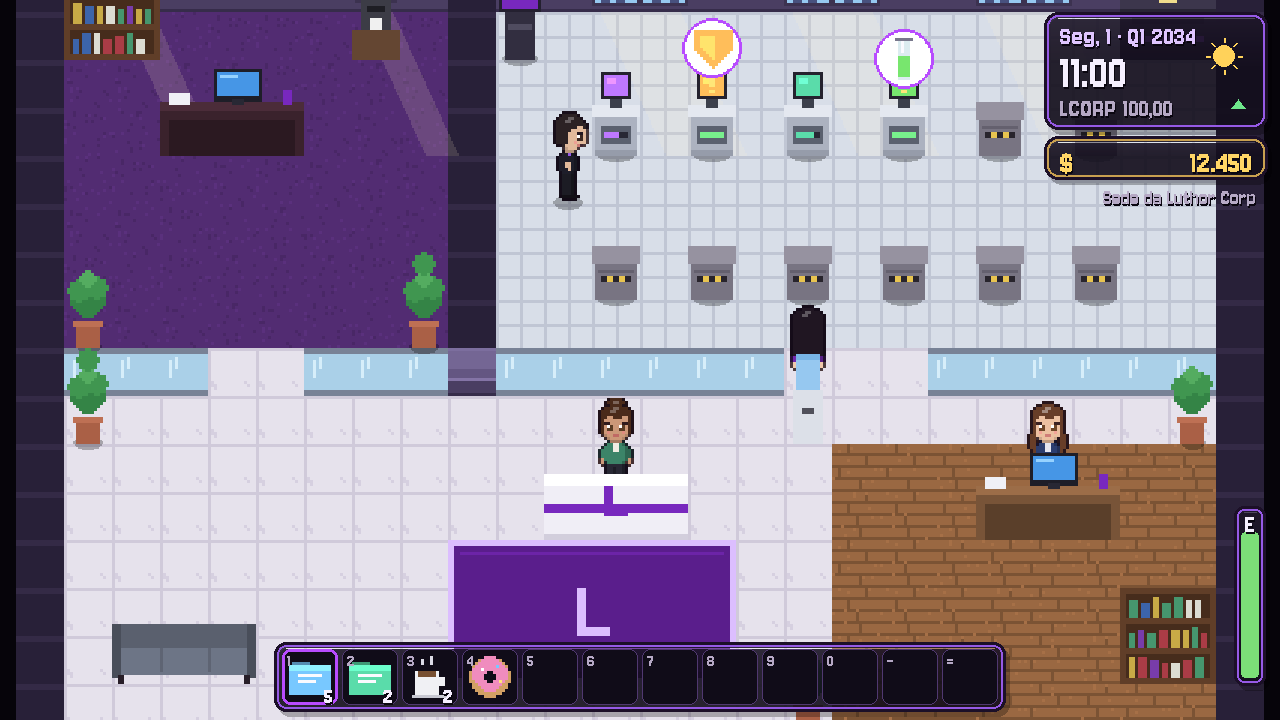
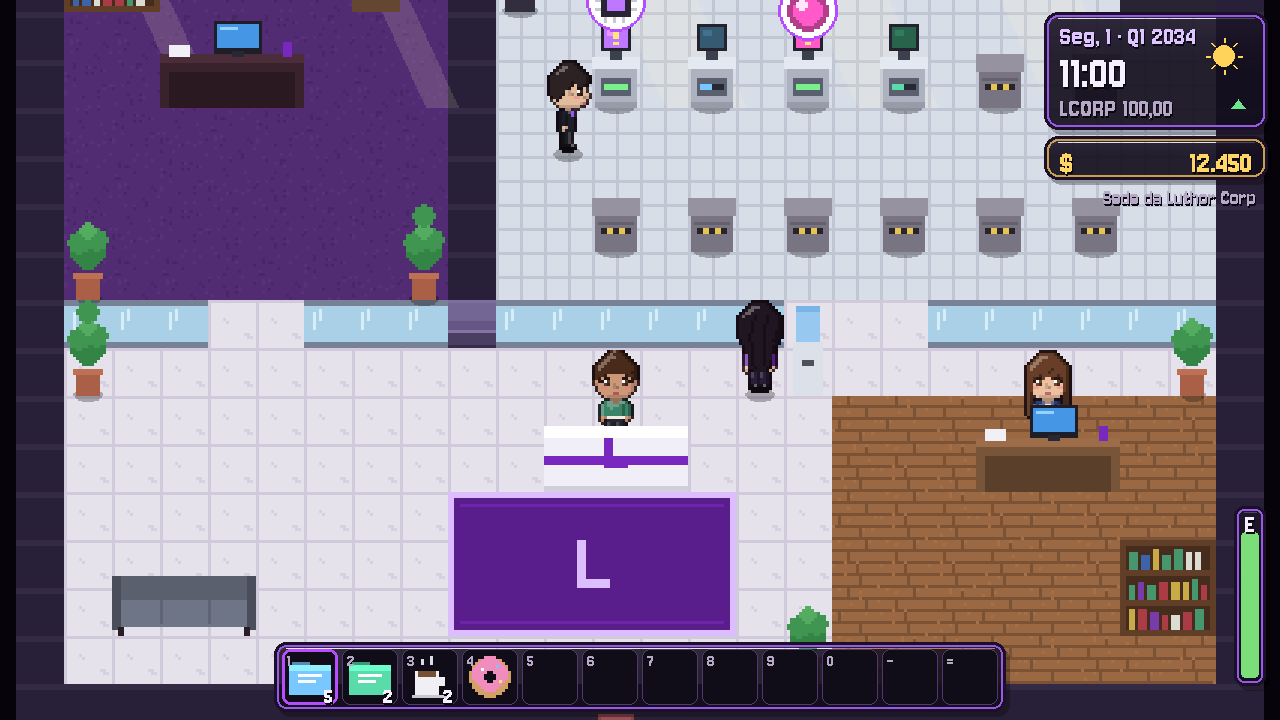
Site: imagens e textos do jogo novo
- Figuras das 18 personagens refeitas com os sprites novos (roupas e rosto maior).
- Capturas de tela refeitas com a cidade nova; galeria ganhou o Bosque Bayside
  e o Jardim do Mirante.
- Textos falam da cidade maior, das roupas e dos módulos scenery.py e sprites.py.
- Retrato em pixel art (quando não há foto) enquadra a cabeça maior.

diff --git a/docs/index.html b/docs/index.html
@@ -131,7 +131,7 @@
         <article class="card reveal"><div class="ico"><img src="img/icons/athena.png" alt=""></div><h3>Laboratório P&amp;D</h3>
           <p>Compre propostas, inicie projetos nas bancadas e trabalhe neles todo dia. Lance produtos e feche contratos à noite.</p></article>
         <article class="card reveal"><div class="ico"><img src="img/icons/robalo.png" alt=""></div><h3>Pescaria</h3>
-          <p>13 espécies no mar e no lago, que mudam com o trimestre, a hora e a chuva. Tem um peixe lendário brilhando verde…</p></article>
+          <p>13 espécies no mar e nos lagos, que mudam com o trimestre, a hora e a chuva. Tem um peixe lendário brilhando verde…</p></article>
         <article class="card g reveal"><span class="pill">novo</span><div class="ico"><img src="img/icons/semente_morango.png" alt=""></div><h3>Horta no terraço</h3>
           <p>Plante manjericão, tomate, morango, girassol, rosas e abóbora. Regue todo dia, colha e cozinhe.</p></article>
         <article class="card g reveal"><span class="pill">novo</span><div class="ico"><img src="img/icons/petisco_pet.png" alt=""></div><h3>Bichinho</h3>
@@ -139,7 +139,9 @@
         <article class="card reveal"><div class="ico"><img src="img/icons/lasanha_nonna.png" alt=""></div><h3>Cozinha</h3>
           <p>Ingredientes do Mercado Central viram pratos no fogão da cobertura. Livros ensinam receitas secretas.</p></article>
         <article class="card g reveal"><span class="pill">novo</span><div class="ico"><img src="img/icons/concha.png" alt=""></div><h3>Coletáveis</h3>
-          <p>Conchas, corais e estrelas-do-mar na praia; flores, amoras e trevos de 4 folhas no parque. Todo dia tem mais.</p></article>
+          <p>Conchas, corais e estrelas-do-mar na praia; flores, amoras e trevos de 4 folhas no parque, no bosque e no jardim. Todo dia tem mais.</p></article>
+        <article class="card g reveal"><span class="pill">novo</span><div class="ico"><img src="img/icons/trevo4.png" alt=""></div><h3>Cidade maior</h3>
+          <p>National City quase dobrou: Bosque Bayside com lago e trilha, Jardim do Mirante com gazebo e um farol na ponta da praia.</p></article>
         <article class="card reveal"><div class="ico"><svg viewBox="0 0 16 16" width="40" height="40" shape-rendering="crispEdges" aria-hidden="true"><path fill="#b84cff" d="M6 2h8v2H8v8H7v1H6v1H3v-1H2v-2h1V10h3V4zM12 4h2v7h-1v1h-1v1H9v-1H8v-2h1V9h3z"/></svg></div><h3>Karaokê</h3>
           <p>À noite a jukebox do Noonan's vira palco. Acerte as setas no ritmo e ganhe gorjetas da plateia.</p></article>
         <article class="card reveal"><div class="ico"><img src="img/icons/pipoca.png" alt=""></div><h3>Cine National</h3>
@@ -209,9 +211,9 @@
           <h3>Uma cidade que vive</h3>
           <p class="intro" style="margin:0">Moradores chegam pela rua, entram nos lugares, ficam um tempo e vão embora. Ninguém repete o mesmo lugar em sequência.</p>
           <ul class="checks">
-            <li><b>12 lugares</b> para visitar, cada um com horário próprio</li>
+            <li><b>12 lugares</b> para visitar, cada um com horário próprio, e áreas verdes novas para passear</li>
             <li><b>Médicas com plantão</b>, almoço fora e folgas que mudam todo dia</li>
-            <li><b>Carros, chuva, vagalumes</b>, pétalas de cerejeira e luz pelas janelas</li>
+            <li><b>Carros, chuva, vagalumes</b>, pétalas de cerejeira, capim balançando e luz pelas janelas</li>
           </ul>
         </div>
       </div>
@@ -224,7 +226,7 @@
       <div class="reveal">
         <p class="kicker">// quem você vai conhecer</p>
         <h2>Personagens</h2>
-        <p class="intro">Cada personagem tem rotina própria, gostos, falas e eventos de coração. Todas aceitam conversa e presentes.</p>
+        <p class="intro">Cada personagem tem rotina própria, gostos, falas, eventos de coração e a sua própria roupa. Todas aceitam conversa e presentes.</p>
       </div>
       <div class="tabs" role="tablist" aria-label="Filtrar personagens">
         <button role="tab" aria-selected="true" data-f="all">Todas</button>
@@ -347,6 +349,8 @@
     ├── game.py        <i># núcleo do jogo</i>
     ├── world.py       <i># mapas de National City</i>
     ├── art.py         <i># pixel art procedural</i>
+    ├── scenery.py     <i># árvores, grama e cenário</i>
+    ├── sprites.py     <i># personagens e roupas</i>
     ├── characters.py  <i># personagens e rotinas</i>
     ├── dialogue.py    <i># falas por período</i>
     ├── activities.py  <i># horta, pet, karaokê, cinema</i>

diff --git a/docs/script.js b/docs/script.js
@@ -54,6 +54,8 @@
   const SHOTS = [
     ["city", "O calçadão Bayside numa manhã movimentada", true],
     ["park", "Parque central com chafariz e lago"],
+    ["woods", "Bosque Bayside, com lago e deque de pesca"],
+    ["garden", "Jardim do Mirante e o gazebo"],
     ["beach", "A orla no fim de tarde"],
     ["fishing", "Peixe mordendo no píer!"],
     ["terrace", "Terraço com horta e o gato Kiwi"],

diff --git a/luthor/art.py b/luthor/art.py
@@ -1709,7 +1709,7 @@ def portrait(filename, look, size=120):
         frames = character_frames(look)
         small = pygame.transform.scale(frames[("down", 0)], (16, 32))
         head = new(16, 14)
-        head.blit(small, (0, -2))
+        head.blit(small, (0, -1))
         s = pygame.Surface((size, size))
         top, bottom = (70, 46, 104), (34, 22, 54)
         for y in range(size):
